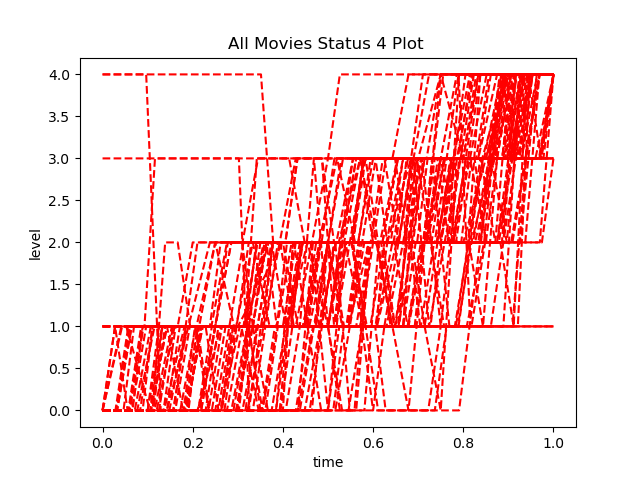
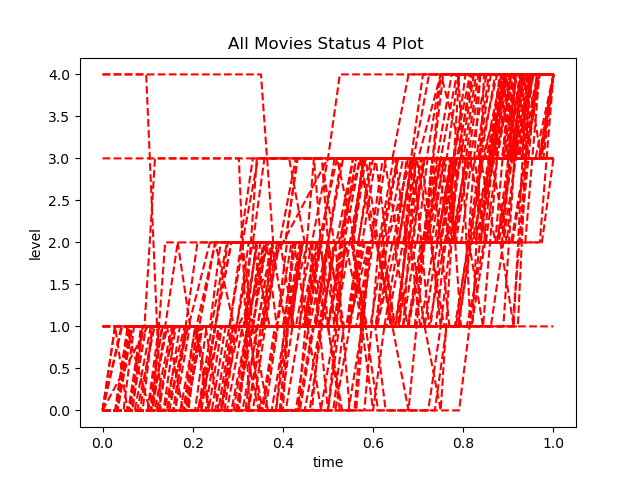
add plot

diff --git a/general/plot_process.py b/general/plot_process.py
@@ -1,6 +1,8 @@
 import numpy as np
+import random
 from scipy.interpolate import interp1d
 import matplotlib.pyplot as plt
+import itertools
 
 from general.general_class import MoviePlot
 
@@ -33,28 +35,45 @@ def prepare_movie_plot_data(movies):
 
 
 def plot_all(movies, status):
-
+    count_max = 5
+    count = 0
+    plt_index = 0
+    marker = itertools.cycle((',', '+', '.', 'o', '*'))
     for p_id in movies.keys():
         x = movies[p_id].x_axis
         for c_i in movies[p_id].main_char_index:
             y = movies[p_id].movie_status[int(c_i)][status]
-            if y[-1] == 3:
-                # print(movies[p_id].project_id)
-                print(movies[p_id].project_name)
+            # if y[-1] == 3:
+            #     # print(movies[p_id].project_id)
+            #     print(movies[p_id].project_name)
             if sum(y) == len(x)*9 or sum(y) == 0:
+                print(movies[p_id].project_id)
                 continue
-            plt.plot(x, y, 'r--')
-            # print(m_i)
-    plt.title('All Movies Status {status_id} Plot '.format(status_id=status))
-    plt.xlabel('time')
-    plt.ylabel('level')
-    plt.savefig('statistics_collection/plot_data/all_movies_status{status_index}.png'.format(status_index=status))
+            plt.plot(x, y, c=np.random.rand(3,), marker=next(marker))
+            count += 1
+
+            if count == count_max:
+                plt.title('All Movies Status {status_id} Plot '.format(status_id=status))
+                plt.xlabel('time')
+                plt.ylabel('level')
+                plt.savefig('statistics_collection/plot_data/all_movies_status{status_index}_part{plt_index}.png'
+                            .format(status_index=status, plt_index=plt_index))
+                plt_index += 1
+                count = 0
+                plt.clf()
+
 
     # plt.title('The Lasers in Three Conditions')
     # plt.xlabel('row')
     # plt.ylabel('column')
     # plt.legend()
     # plt.show()
+
+
+def random_color():
+    rgbl=[255,0,0]
+    random.shuffle(rgbl)
+    return tuple(rgbl)
 
 
 def plot_by_id(movies, project_id, status):
